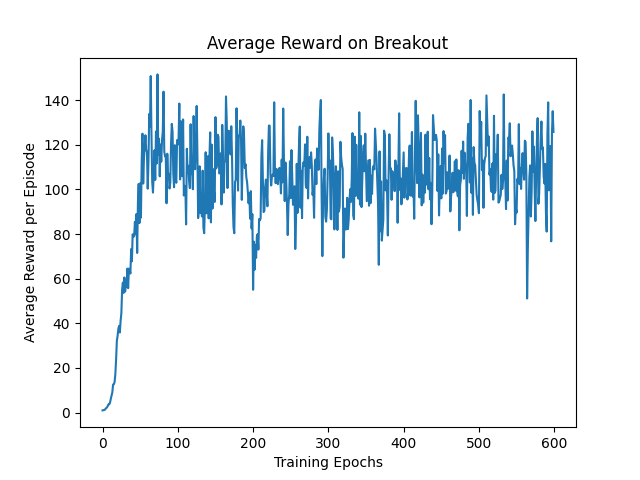
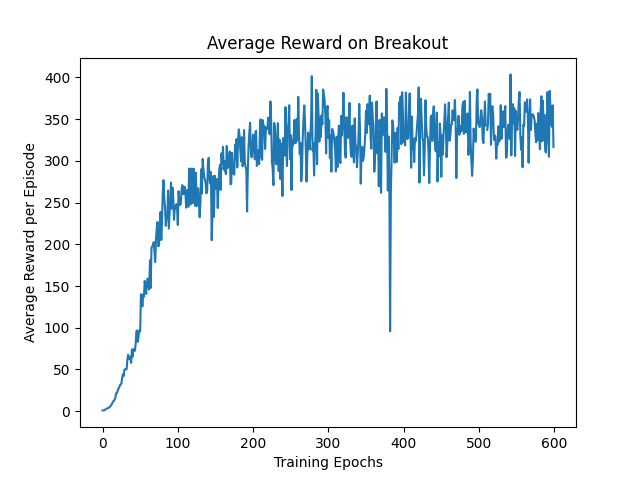
correct target value in ddqn

diff --git a/Deep_Reinforcement_Learning_with_Double_Q_learning/ddqn.py b/Deep_Reinforcement_Learning_with_Double_Q_learning/ddqn.py
@@ -24,8 +24,8 @@ class DQN(nn.Module):
 
 
 def Deep_Q_Learning(env, buffer_size=1_000_000, nb_epochs=30_000_000, train_frequency=4, batch_size=32,
-                    gamma=0.99, replay_start_size=50_000, epsilon_start=1, epsilon_end=0.1,
-                    exploration_steps=1_000_000, device='cuda', C=10_000):
+                    gamma=0.99, replay_start_size=50_000, epsilon_start=1, epsilon_end=0.01,
+                    exploration_steps=1_000_000, device='cuda', C=5_000):
     # Initialize replay memory D to capacity N
     rb = ReplayBuffer(buffer_size, env.observation_space, env.action_space, device,
                       optimize_memory_usage=True, handle_timeout_termination=False)
@@ -36,7 +36,7 @@ def Deep_Q_Learning(env, buffer_size=1_000_000, nb_epochs=30_000_000, train_freq
     target_network = DQN(env.action_space.n).to(device)
     target_network.load_state_dict(q_network.state_dict())
 
-    optimizer = torch.optim.Adam(q_network.parameters(), lr=1.25e-4)
+    optimizer = torch.optim.Adam(q_network.parameters(), lr=5e-5)
 
     epoch = 0
     smoothed_rewards = []
@@ -85,7 +85,8 @@ def Deep_Q_Learning(env, buffer_size=1_000_000, nb_epochs=30_000_000, train_freq
                 # Sample random minibatch of transitions (φj , aj , rj , φj +1 ) from D
                 data = rb.sample(batch_size)
                 with torch.no_grad():
-                    max_target_q_value, _ = target_network(data.next_observations).max(dim=1)
+                    action = torch.argmax(q_network(torch.Tensor(data.next_observations).to(device)), dim=1)
+                    max_target_q_value = target_network(data.next_observations).gather(1, action.unsqueeze(-1)).squeeze()
                     y = data.rewards.flatten() + gamma * max_target_q_value * (1 - data.dones.flatten())
                 current_q_value = q_network(data.observations).gather(1, data.actions).squeeze()
                 loss = F.huber_loss(y, current_q_value)
